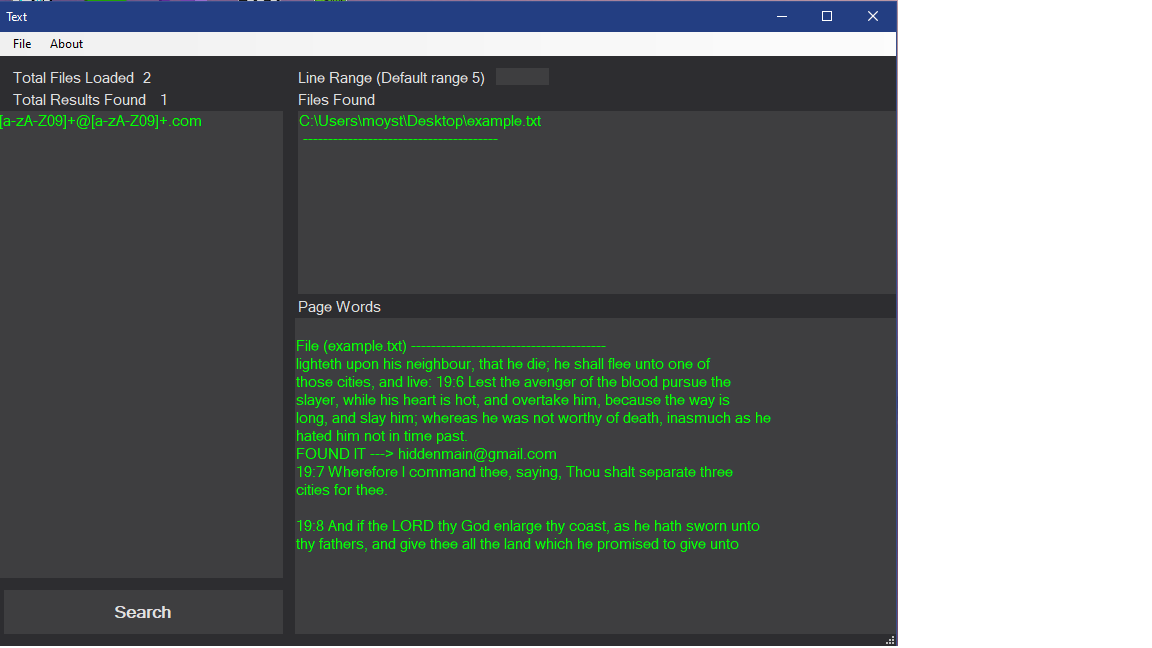
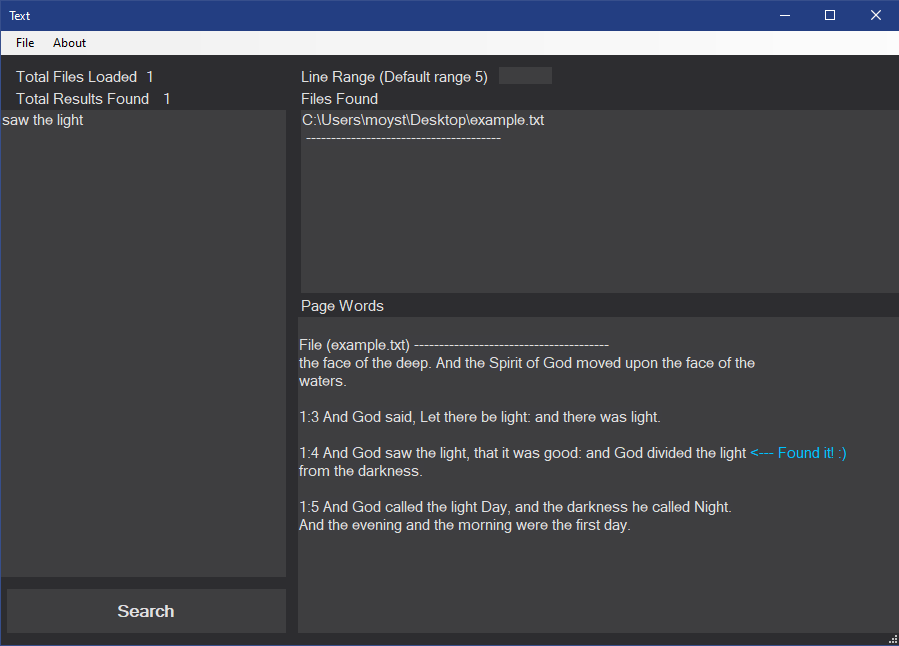
added highlight when found

diff --git a/FilesSeek/PDF.Designer.cs b/FilesSeek/PDF.Designer.cs
@@ -55,7 +55,7 @@
             | System.Windows.Forms.AnchorStyles.Right)));
             this.result.BackColor = System.Drawing.Color.FromArgb(((int)(((byte)(62)))), ((int)(((byte)(62)))), ((int)(((byte)(64)))));
             this.result.BorderStyle = System.Windows.Forms.BorderStyle.None;
-            this.result.ForeColor = System.Drawing.Color.Lime;
+            this.result.ForeColor = System.Drawing.Color.FromArgb(((int)(((byte)(224)))), ((int)(((byte)(224)))), ((int)(((byte)(224)))));
             this.result.Location = new System.Drawing.Point(345, 74);
             this.result.Name = "result";
             this.result.ReadOnly = true;
@@ -71,7 +71,7 @@
             this.extract.BackColor = System.Drawing.Color.FromArgb(((int)(((byte)(62)))), ((int)(((byte)(62)))), ((int)(((byte)(64)))));
             this.extract.BorderStyle = System.Windows.Forms.BorderStyle.None;
             this.extract.Font = new System.Drawing.Font("Microsoft Sans Serif", 11.25F, System.Drawing.FontStyle.Regular, System.Drawing.GraphicsUnit.Point, ((byte)(0)));
-            this.extract.ForeColor = System.Drawing.Color.Lime;
+            this.extract.ForeColor = System.Drawing.Color.FromArgb(((int)(((byte)(224)))), ((int)(((byte)(224)))), ((int)(((byte)(224)))));
             this.extract.Location = new System.Drawing.Point(345, 268);
             this.extract.Name = "extract";
             this.extract.ReadOnly = true;
@@ -138,14 +138,14 @@
             // powerPointSearchToolStripMenuItem
             // 
             this.powerPointSearchToolStripMenuItem.Name = "powerPointSearchToolStripMenuItem";
-            this.powerPointSearchToolStripMenuItem.Size = new System.Drawing.Size(180, 22);
+            this.powerPointSearchToolStripMenuItem.Size = new System.Drawing.Size(173, 22);
             this.powerPointSearchToolStripMenuItem.Text = "PowerPoint Search";
             this.powerPointSearchToolStripMenuItem.Click += new System.EventHandler(this.powerPointSearchToolStripMenuItem_Click);
             // 
             // textFilesSearchToolStripMenuItem
             // 
             this.textFilesSearchToolStripMenuItem.Name = "textFilesSearchToolStripMenuItem";
-            this.textFilesSearchToolStripMenuItem.Size = new System.Drawing.Size(180, 22);
+            this.textFilesSearchToolStripMenuItem.Size = new System.Drawing.Size(173, 22);
             this.textFilesSearchToolStripMenuItem.Text = "Text Files Search";
             this.textFilesSearchToolStripMenuItem.Click += new System.EventHandler(this.textFilesSearchToolStripMenuItem_Click);
             // 
@@ -234,7 +234,7 @@
             this.searcht.BackColor = System.Drawing.Color.FromArgb(((int)(((byte)(62)))), ((int)(((byte)(62)))), ((int)(((byte)(64)))));
             this.searcht.BorderStyle = System.Windows.Forms.BorderStyle.None;
             this.searcht.Font = new System.Drawing.Font("Microsoft Sans Serif", 11.25F, System.Drawing.FontStyle.Regular, System.Drawing.GraphicsUnit.Point, ((byte)(0)));
-            this.searcht.ForeColor = System.Drawing.Color.Lime;
+            this.searcht.ForeColor = System.Drawing.Color.FromArgb(((int)(((byte)(224)))), ((int)(((byte)(224)))), ((int)(((byte)(224)))));
             this.searcht.Location = new System.Drawing.Point(15, 74);
             this.searcht.Name = "searcht";
             this.searcht.Size = new System.Drawing.Size(321, 365);

diff --git a/FilesSeek/Text.Designer.cs b/FilesSeek/Text.Designer.cs
@@ -55,7 +55,7 @@
             this.searcht.BackColor = System.Drawing.Color.FromArgb(((int)(((byte)(62)))), ((int)(((byte)(62)))), ((int)(((byte)(64)))));
             this.searcht.BorderStyle = System.Windows.Forms.BorderStyle.None;
             this.searcht.Font = new System.Drawing.Font("Microsoft Sans Serif", 11.25F, System.Drawing.FontStyle.Regular, System.Drawing.GraphicsUnit.Point, ((byte)(0)));
-            this.searcht.ForeColor = System.Drawing.Color.Lime;
+            this.searcht.ForeColor = System.Drawing.Color.FromArgb(((int)(((byte)(224)))), ((int)(((byte)(224)))), ((int)(((byte)(224)))));
             this.searcht.Location = new System.Drawing.Point(0, 79);
             this.searcht.MinimumSize = new System.Drawing.Size(249, 350);
             this.searcht.Name = "searcht";
@@ -110,7 +110,7 @@
             this.result.BackColor = System.Drawing.Color.FromArgb(((int)(((byte)(62)))), ((int)(((byte)(62)))), ((int)(((byte)(64)))));
             this.result.BorderStyle = System.Windows.Forms.BorderStyle.None;
             this.result.Font = new System.Drawing.Font("Microsoft Sans Serif", 11.25F, System.Drawing.FontStyle.Regular, System.Drawing.GraphicsUnit.Point, ((byte)(0)));
-            this.result.ForeColor = System.Drawing.Color.Lime;
+            this.result.ForeColor = System.Drawing.Color.FromArgb(((int)(((byte)(224)))), ((int)(((byte)(224)))), ((int)(((byte)(224)))));
             this.result.Location = new System.Drawing.Point(300, 79);
             this.result.Name = "result";
             this.result.ReadOnly = true;
@@ -167,7 +167,7 @@
             this.extract.BackColor = System.Drawing.Color.FromArgb(((int)(((byte)(62)))), ((int)(((byte)(62)))), ((int)(((byte)(64)))));
             this.extract.BorderStyle = System.Windows.Forms.BorderStyle.None;
             this.extract.Font = new System.Drawing.Font("Microsoft Sans Serif", 11.25F, System.Drawing.FontStyle.Regular, System.Drawing.GraphicsUnit.Point, ((byte)(0)));
-            this.extract.ForeColor = System.Drawing.Color.Lime;
+            this.extract.ForeColor = System.Drawing.Color.FromArgb(((int)(((byte)(224)))), ((int)(((byte)(224)))), ((int)(((byte)(224)))));
             this.extract.Location = new System.Drawing.Point(297, 286);
             this.extract.Name = "extract";
             this.extract.ReadOnly = true;

diff --git a/FilesSeek/PowerPoint.Designer.cs b/FilesSeek/PowerPoint.Designer.cs
@@ -52,7 +52,7 @@
             this.searcht.BackColor = System.Drawing.Color.FromArgb(((int)(((byte)(62)))), ((int)(((byte)(62)))), ((int)(((byte)(64)))));
             this.searcht.BorderStyle = System.Windows.Forms.BorderStyle.None;
             this.searcht.Font = new System.Drawing.Font("Microsoft Sans Serif", 11.25F, System.Drawing.FontStyle.Regular, System.Drawing.GraphicsUnit.Point, ((byte)(0)));
-            this.searcht.ForeColor = System.Drawing.Color.Lime;
+            this.searcht.ForeColor = System.Drawing.Color.FromArgb(((int)(((byte)(224)))), ((int)(((byte)(224)))), ((int)(((byte)(224)))));
             this.searcht.Location = new System.Drawing.Point(15, 73);
             this.searcht.Name = "searcht";
             this.searcht.Size = new System.Drawing.Size(249, 351);
@@ -172,7 +172,7 @@
             this.extract.BackColor = System.Drawing.Color.FromArgb(((int)(((byte)(62)))), ((int)(((byte)(62)))), ((int)(((byte)(64)))));
             this.extract.BorderStyle = System.Windows.Forms.BorderStyle.None;
             this.extract.Font = new System.Drawing.Font("Microsoft Sans Serif", 11.25F, System.Drawing.FontStyle.Regular, System.Drawing.GraphicsUnit.Point, ((byte)(0)));
-            this.extract.ForeColor = System.Drawing.Color.Lime;
+            this.extract.ForeColor = System.Drawing.Color.FromArgb(((int)(((byte)(224)))), ((int)(((byte)(224)))), ((int)(((byte)(224)))));
             this.extract.Location = new System.Drawing.Point(273, 267);
             this.extract.Name = "extract";
             this.extract.ReadOnly = true;
@@ -197,7 +197,7 @@
             | System.Windows.Forms.AnchorStyles.Right)));
             this.result.BackColor = System.Drawing.Color.FromArgb(((int)(((byte)(62)))), ((int)(((byte)(62)))), ((int)(((byte)(64)))));
             this.result.BorderStyle = System.Windows.Forms.BorderStyle.None;
-            this.result.ForeColor = System.Drawing.Color.Lime;
+            this.result.ForeColor = System.Drawing.Color.FromArgb(((int)(((byte)(224)))), ((int)(((byte)(224)))), ((int)(((byte)(224)))));
             this.result.Location = new System.Drawing.Point(273, 73);
             this.result.Name = "result";
             this.result.ReadOnly = true;

diff --git a/FilesSeek/Text.cs b/FilesSeek/Text.cs
@@ -67,7 +67,7 @@ namespace PDFDetective
                         {
                             extract.Text += lines[currentLine + i] + Environment.NewLine;
                         }
-                        extract.Text += "FOUND IT --->" + line + Environment.NewLine;
+                        extract.Text += line + " <--- Found it! :)" + Environment.NewLine;
                         for (int i = 1; i <= range; i++)
                         {
                             extract.Text += lines[currentLine + i] + Environment.NewLine;
@@ -78,6 +78,11 @@ namespace PDFDetective
                 currentLine = 0;
             }
             lfound.Text = totalfound.ToString();
+            if (extract.Text.Contains("<--- Found it! :)"))
+            {
+                extract.Select(extract.Text.IndexOf("<--- Found it! :)"), "<--- Found it! :)".Length);
+                extract.SelectionColor = Color.DeepSkyBlue;
+            }
         }
     }
 }
